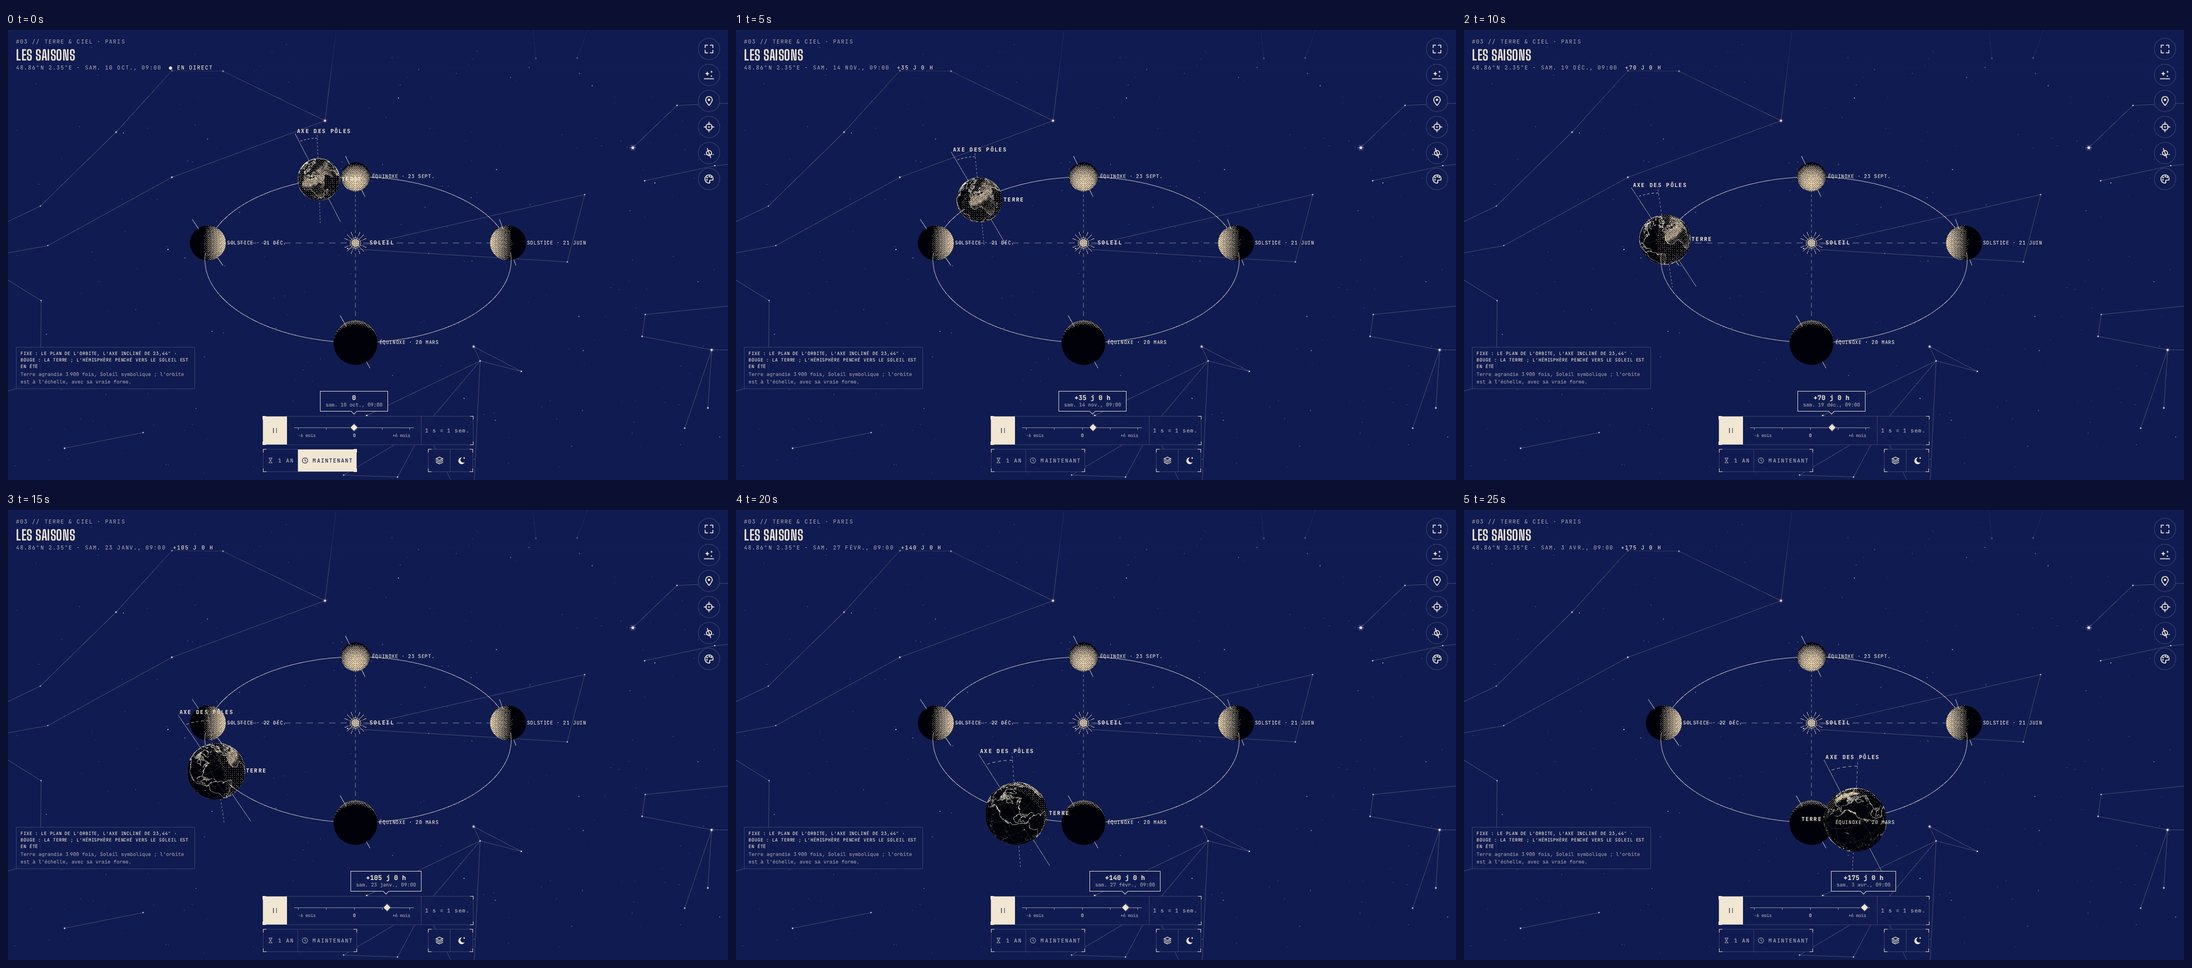
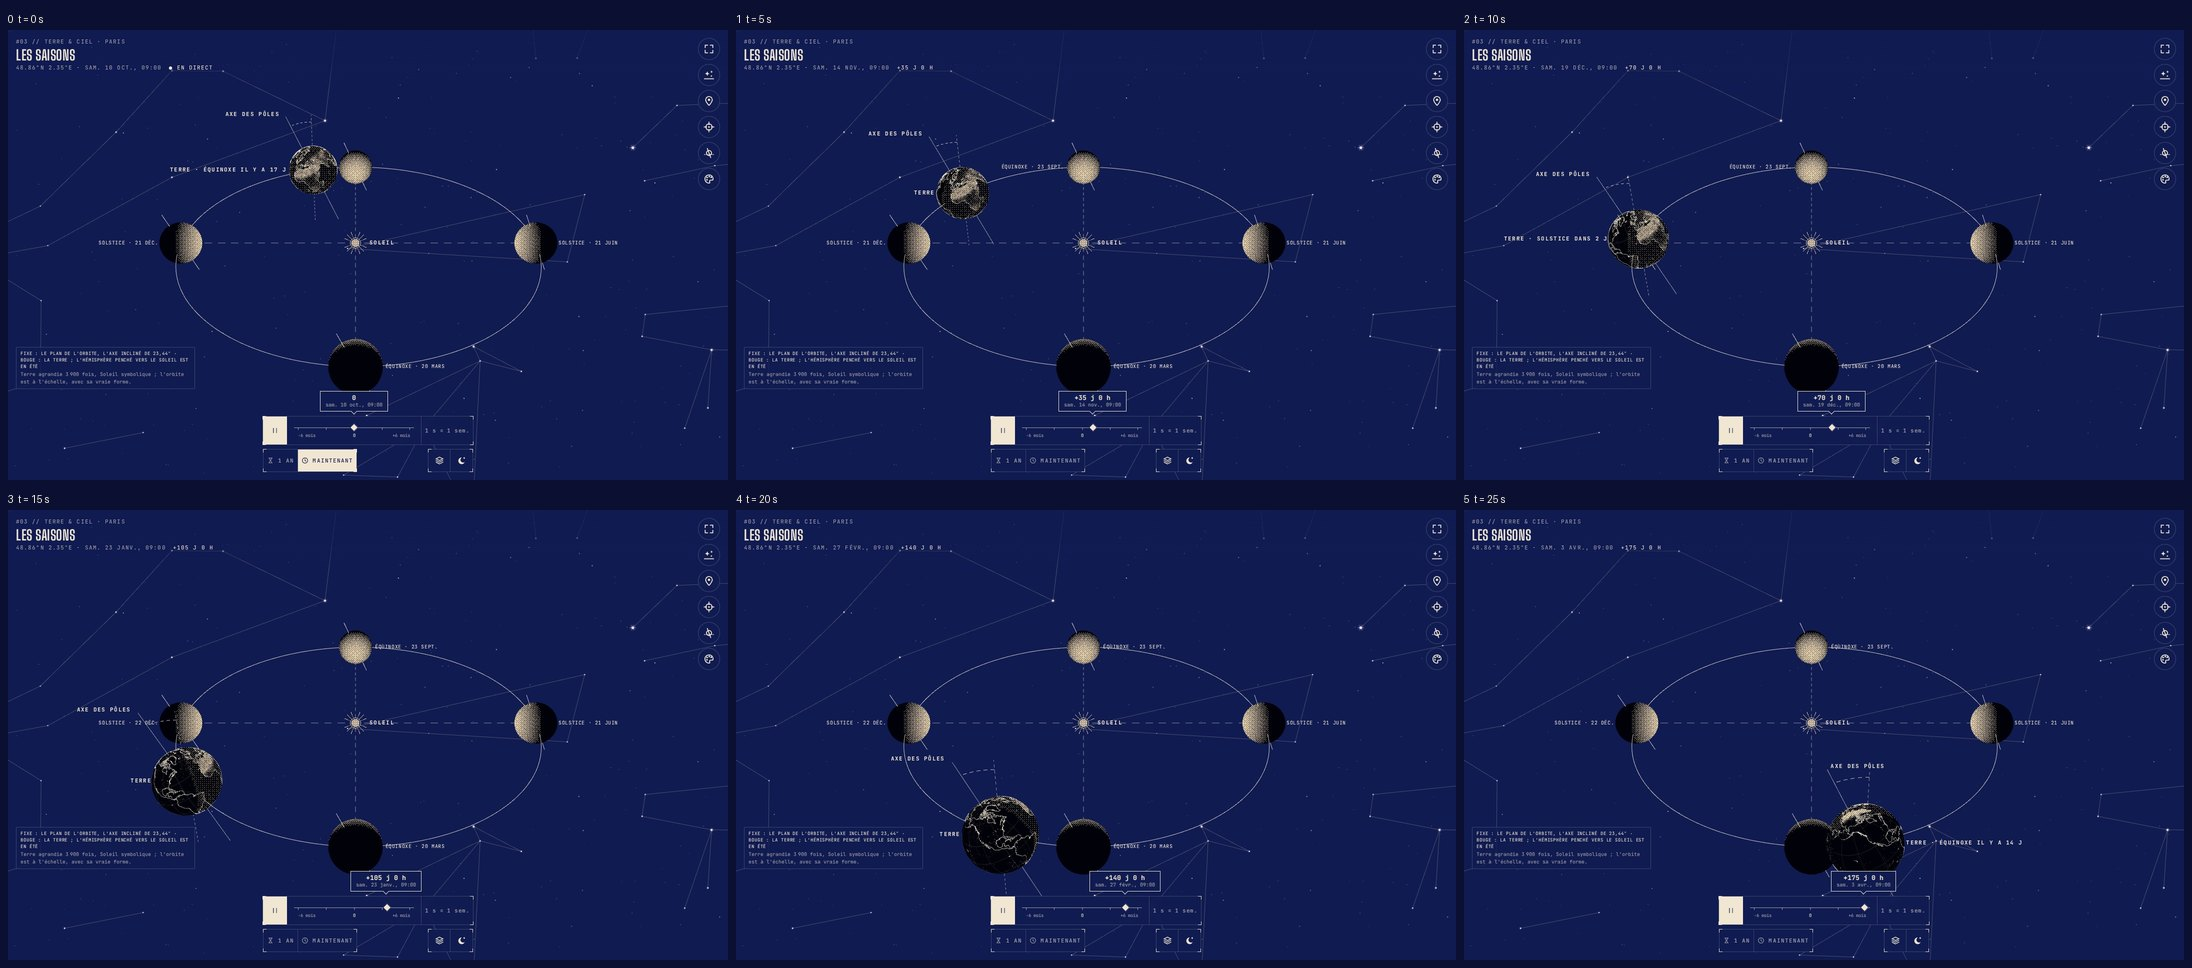
docs(design): re-take the points of view's captures after the polish pass (#128, #124)
Claude-Session: https://claude.ai/code/session_01N1QFv7eBBRTZ3qycztnweP

diff --git a/docs/design/frames-v2/README.md b/docs/design/frames-v2/README.md
@@ -20,8 +20,9 @@ sont à juger ici.
 |---|---|---|
 | `{mobile,desktop}-stars.jpg` | 1. **La Terre tourne** (fixé sur les étoiles, par défaut) | La Terre entière avec une marge, pôle Nord céleste en haut, vue à 90° du Soleil : le terminateur coupe le disque. La lumière du Soleil arrive de la gauche (symbole du Soleil au bord de la zone libre, trois rayons gravés en pointillé jusqu'au limbe éclairé). Flèche de rotation au-dessus du pôle Nord, « 1 tour en 23 h 56 min ». |
 | `{mobile,desktop}-earth.jpg` | 2. **Vu du sol** (lié à la Terre) | Caméra au-dessus de votre lieu (« Vous êtes ici » au centre). Le Soleil et la Lune (glyphes gravés de la carte, phase de la Lune) sur leurs cercles du jour en pointillé, à des distances schématiques ; trajet subsolaire et sublunaire du jour sur le globe, point subsolaire cerclé. |
-| `{mobile,desktop}-seasons.jpg` | 3. **Les saisons** (écliptique, centré sur le Soleil) | Le Soleil au centre, l'orbite de la Terre (vraie forme, 1 au = 6 rayons terrestres) vue de 32° au-dessus, juin à droite. Terre agrandie ≈ 3 900 fois (annoncé dans la légende), son axe allongé. Quatre Terres fantômes aux équinoxes et solstices de l'année, datées, éclairées depuis le Soleil, leurs axes parallèles ; lignes des solstices et des équinoxes ; arc d'inclinaison et pôle de l'écliptique sur la Terre. |
-| `{mobile,desktop}-solar.jpg` | 4. **Le système solaire** (héliocentrique, #124) | Le Soleil, les 8 orbites (distances compressées 6,1 · ln(1 + r / 0,15 au)), les planètes à leur position du jour en petits globes gravés éclairés par le Soleil (rayons (R / R⊕)^¼). Ligne de visée Terre → Mars en pointillé jusqu'au cercle de fond, et sa trace sur 6 mois (spirale vers l'intérieur pour que le retour en arrière se voie). Toucher une planète la visite (point de vue 5). |
+| `{mobile,desktop}-seasons.jpg` | 3. **Les saisons** (écliptique, centré sur le Soleil) | Le Soleil au centre, l'orbite de la Terre (vraie forme, 1 au = 6 rayons terrestres) vue de 32° au-dessus sur ordinateur et de 58° sur un téléphone en portrait (l'ellipse plus haute occupe la hauteur libre), juin à droite. Terre agrandie ≈ 3 900 fois (annoncé dans la légende), son axe allongé. Quatre Terres fantômes aux équinoxes et solstices de l'année, datées, éclairées depuis le Soleil, leurs axes parallèles ; lignes des solstices et des équinoxes ; arc d'inclinaison et pôle de l'écliptique sur la Terre. |
+| `{mobile,desktop}-solar.jpg` | 4. **Le système solaire** (héliocentrique, #124) | Le Soleil, les 8 orbites (distances compressées 6,1 · ln(1 + r / 0,15 au)), les planètes à leur position du jour en petits globes gravés éclairés par le Soleil (rayons (R / R⊕)^¼), vu de 48° (64° en portrait). Chaque planète garde son nom : étiquettes posées à l'opposé du Soleil, avec un trait de rappel quand elles sont serrées, sans jamais couvrir un disque. Ligne de visée Terre → Mars en pointillé jusqu'au cercle de fond, et sa trace sur 6 mois (spirale vers l'intérieur pour que le retour en arrière se voie). Toucher une planète la visite (point de vue 5). |
+| | | **Étiquettes des schémas** : quand la Terre est à moins de 20 jours d'un équinoxe ou d'un solstice, son étiquette et celle de la marque fusionnent (« Terre · équinoxe il y a 17 j ») ; « Vous êtes ici » est posé sur son repère et masqué quand le lieu est sur la face cachée ; « 1 tour en 23 h 56 min » au-dessus de la flèche de rotation. |
 | `{mobile,desktop}-body.jpg` | 5. **Visiter un astre** (#123, ici Mars) | Inchangé sauf la légende au format commun et l'en-tête « Visite : Mars ». |
 | `{mobile,desktop}-panel.jpg` | Sélecteur | Les 5 points de vue, chacun avec un pictogramme gravé et une ligne d'aide ; sous-liste des astres pour « Visiter un astre ». |
 | `{mobile,desktop}-seasons-night.jpg` | Les saisons en mode nuit rouge | Repères, glyphes, globes et légende ramenés à l'encre rouge. |
